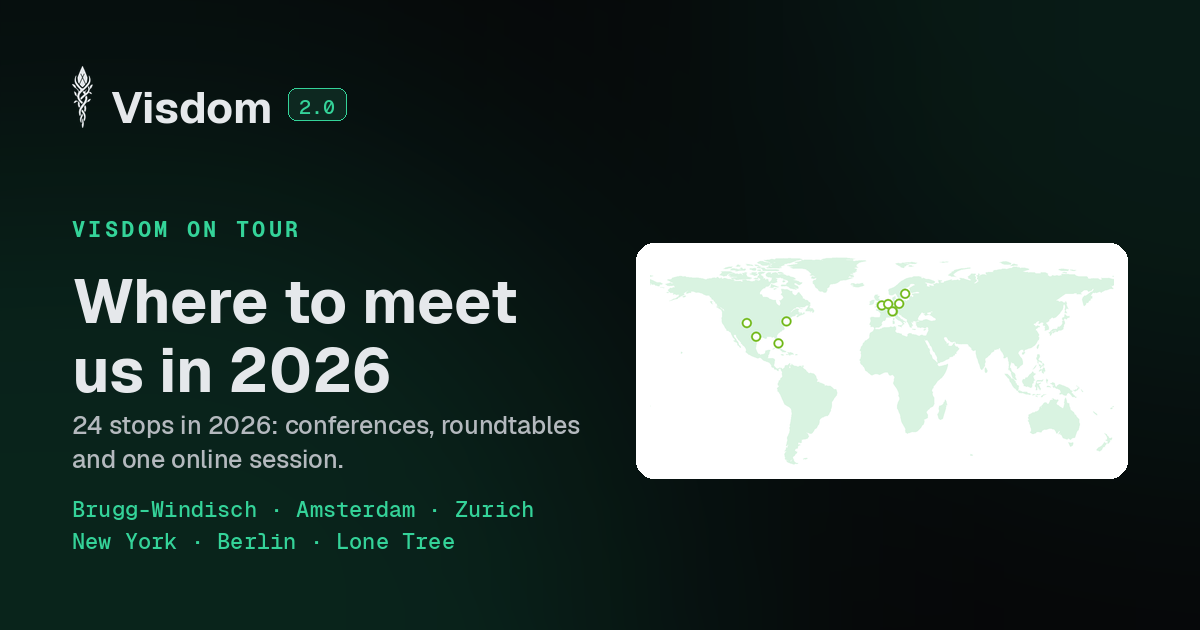
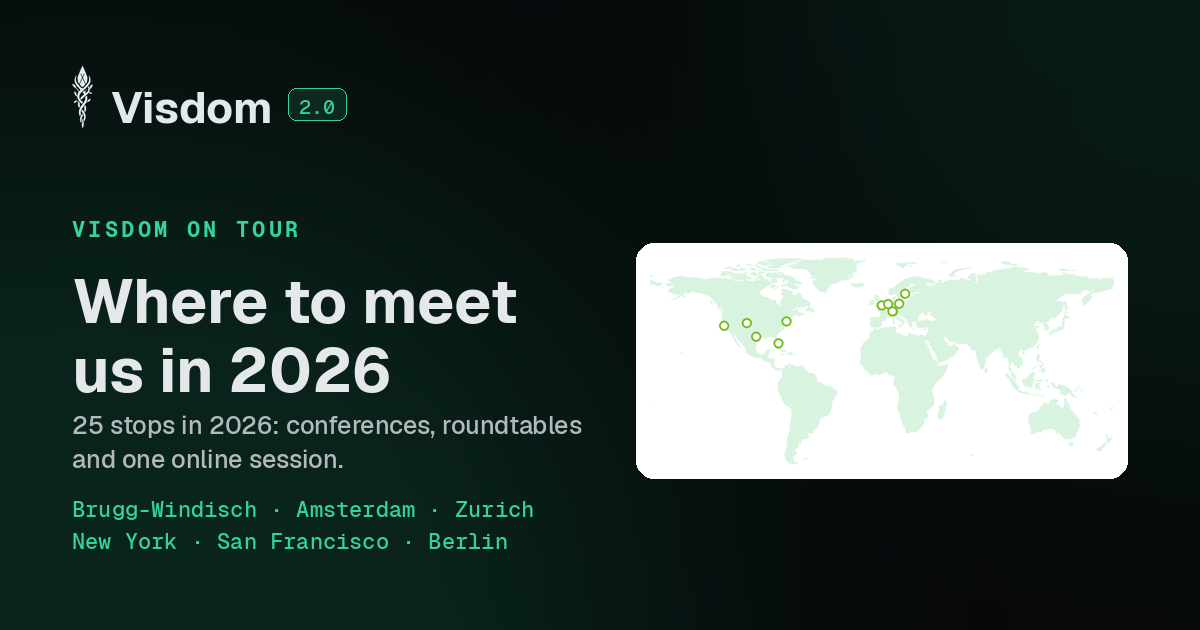
Add SF Tech Week, and guard the map against missing cities
San Francisco was on the drawn map and dropped off when the map started
being drawn from the real schedule. Dates from Werka's event doc: 5-11
October, the week the US leg is built around. Our own evening inside it
has no settled title or day yet, so the stop is the week.

Lone Tree's label pointed left at the height of its own dot and covered
San Francisco, so it moves up.

A city with no entry in CITY_PLACEMENT is left off the map in silence.
The new test fails the build instead, in both directions, so the map and
the schedule cannot drift apart.

Claude-Session: https://claude.ai/code/session_01HtWw8LzHF1NERsjPb2riNd

Changed region(s): [[0.0617, 0.6635, 0.4933, 0.6937], [0.185, 0.8444, 0.3083, 0.8746], [0.3392, 0.8444, 0.4317, 0.8746]]

diff --git a/src/data/tour.ts b/src/data/tour.ts
@@ -184,6 +184,21 @@ export const TOUR_EVENTS: TourEvent[] = [
     kind: 'roundtable',
   },
   {
+    // The week the US leg is built around: the team is in San Francisco for it
+    // regardless of what else lands that month. Our own evening inside the week
+    // (AI/Data Readiness and Visdom, back to back) has no settled title or day
+    // yet, so the stop is the week, the way the event doc carries it.
+    name: 'SF Tech Week',
+    city: 'San Francisco',
+    country: 'USA',
+    flag: '🇺🇸',
+    date: '2026-10-05',
+    endDate: '2026-10-11',
+    month: 'October',
+    href: 'https://www.tech-week.com/',
+    kind: 'meetup',
+  },
+  {
     name: 'Scala Days 2026',
     city: 'Berlin',
     country: 'Germany',
@@ -337,7 +352,12 @@ export type CityPlacement = {
 };
 
 export const CITY_PLACEMENT: Record<string, CityPlacement> = {
-  'Lone Tree': { lat: 39.55, lon: -104.87, dx: -5, dy: 0, anchor: 'end' },
+  // Left and low: the label is the widest on the map, and the two things it
+  // could collide with sit above it (Lone Tree) and to its right (Austin).
+  'San Francisco': { lat: 37.77, lon: -122.42, dx: -5, dy: 5, anchor: 'end' },
+  // Lifted off the level of its own dot: pointing left at that height, the
+  // label reached far enough across the continent to cover San Francisco.
+  'Lone Tree': { lat: 39.55, lon: -104.87, dx: -5, dy: -4, anchor: 'end' },
   Miami: { lat: 25.77, lon: -80.19, dx: 5, dy: 3, anchor: 'start' },
   Austin: { lat: 30.27, lon: -97.74, dx: -5, dy: 3.5, anchor: 'end' },
   'New York': { lat: 40.71, lon: -74.01, dx: 5, dy: 2, anchor: 'start' },

diff --git a/src/data/tour.test.ts b/src/data/tour.test.ts
@@ -1,0 +1,36 @@
+import { test } from 'node:test';
+import assert from 'node:assert/strict';
+import { CITY_PLACEMENT, TOUR_EVENTS } from './tour.ts';
+
+/**
+ * The map draws a stop only if its city is in CITY_PLACEMENT, and drops it in
+ * silence otherwise: a stop added to the schedule with no coordinates shows up
+ * in the table, is absent from the map, and nothing anywhere says so. These two
+ * assertions are what makes that difference visible, by failing the build.
+ */
+
+const placedCities = Object.keys(CITY_PLACEMENT);
+
+/** An online session has no place on a world map, and is meant to have none. */
+const onMap = TOUR_EVENTS.filter((event) => event.city !== 'Online');
+
+test('every city on the schedule has a place on the map', () => {
+  const missing = [...new Set(onMap.map((event) => event.city))].filter(
+    (city) => !(city in CITY_PLACEMENT),
+  );
+  assert.deepEqual(
+    missing,
+    [],
+    `add these to CITY_PLACEMENT or they will be missing from the map: ${missing.join(', ')}`,
+  );
+});
+
+test('every place on the map is a city on the schedule', () => {
+  const cities = new Set(onMap.map((event) => event.city));
+  const stale = placedCities.filter((city) => !cities.has(city));
+  assert.deepEqual(
+    stale,
+    [],
+    `these have coordinates but no stop left to draw: ${stale.join(', ')}`,
+  );
+});
